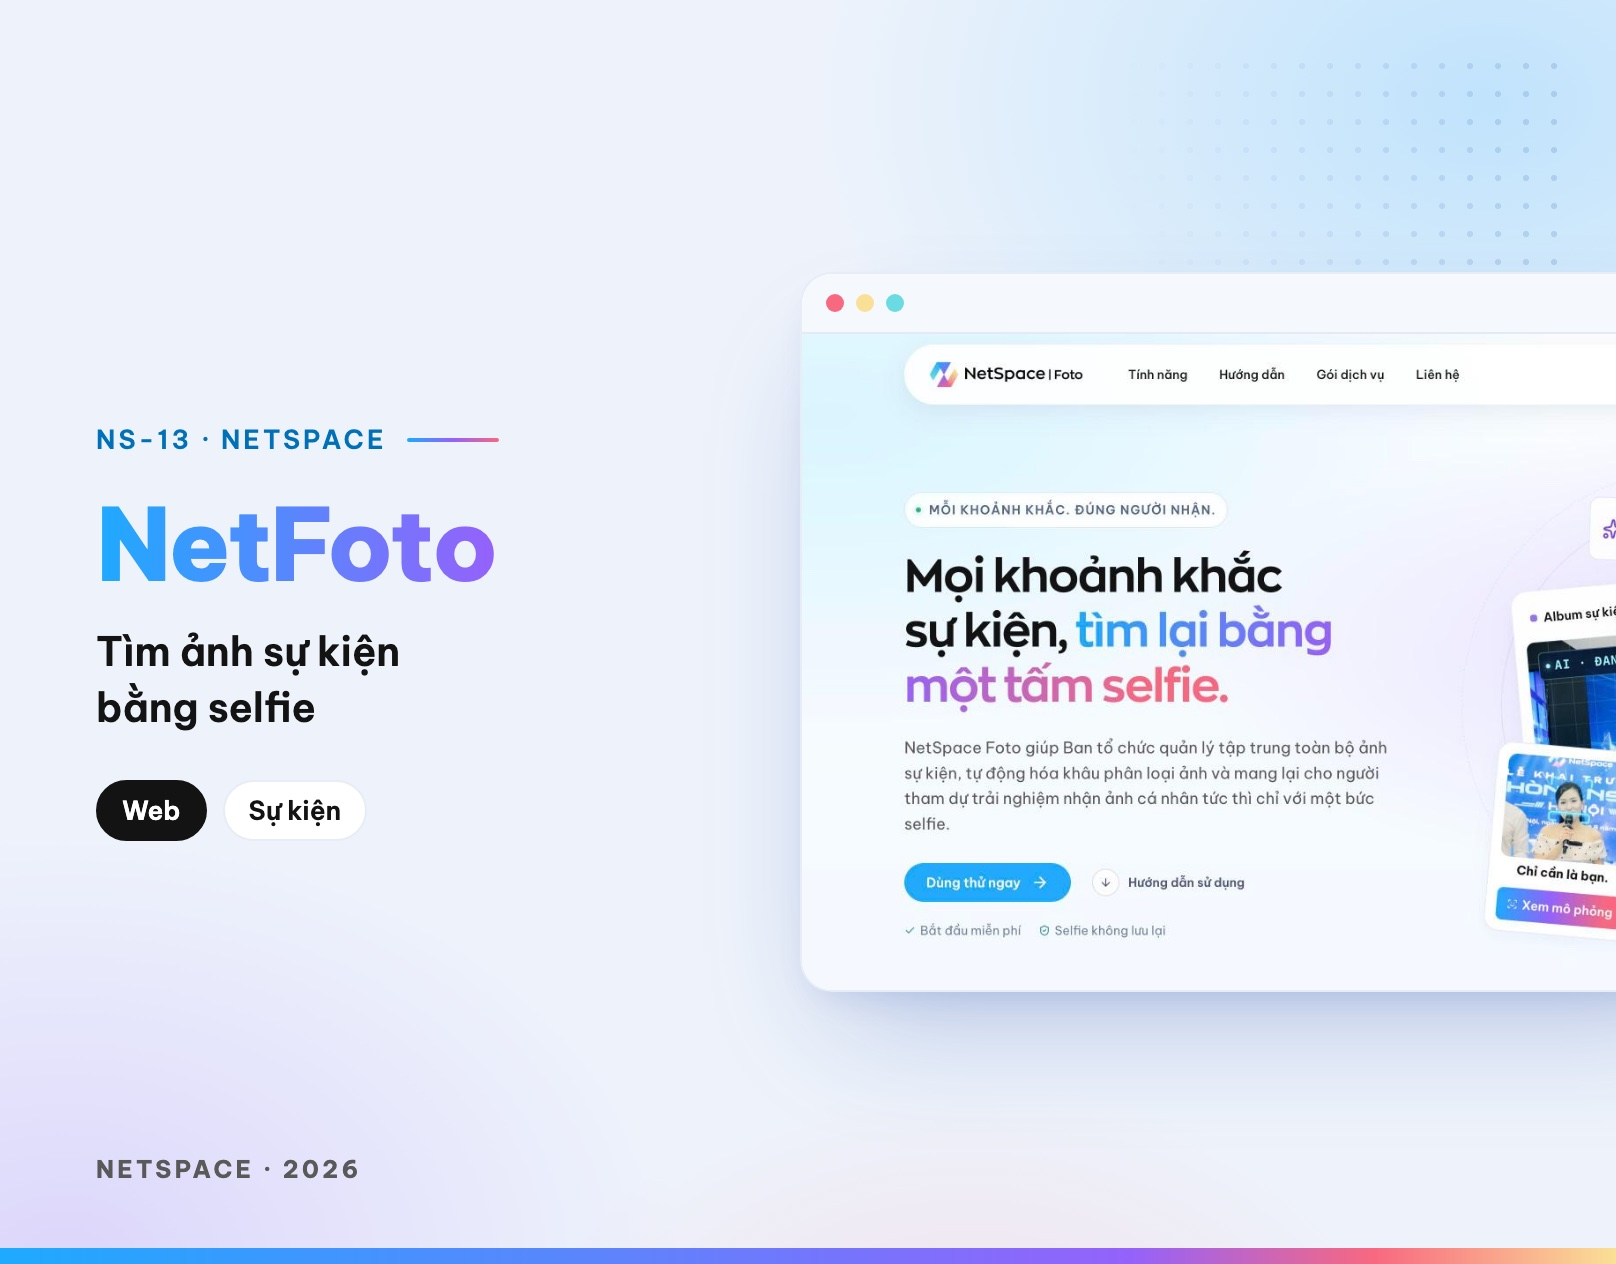
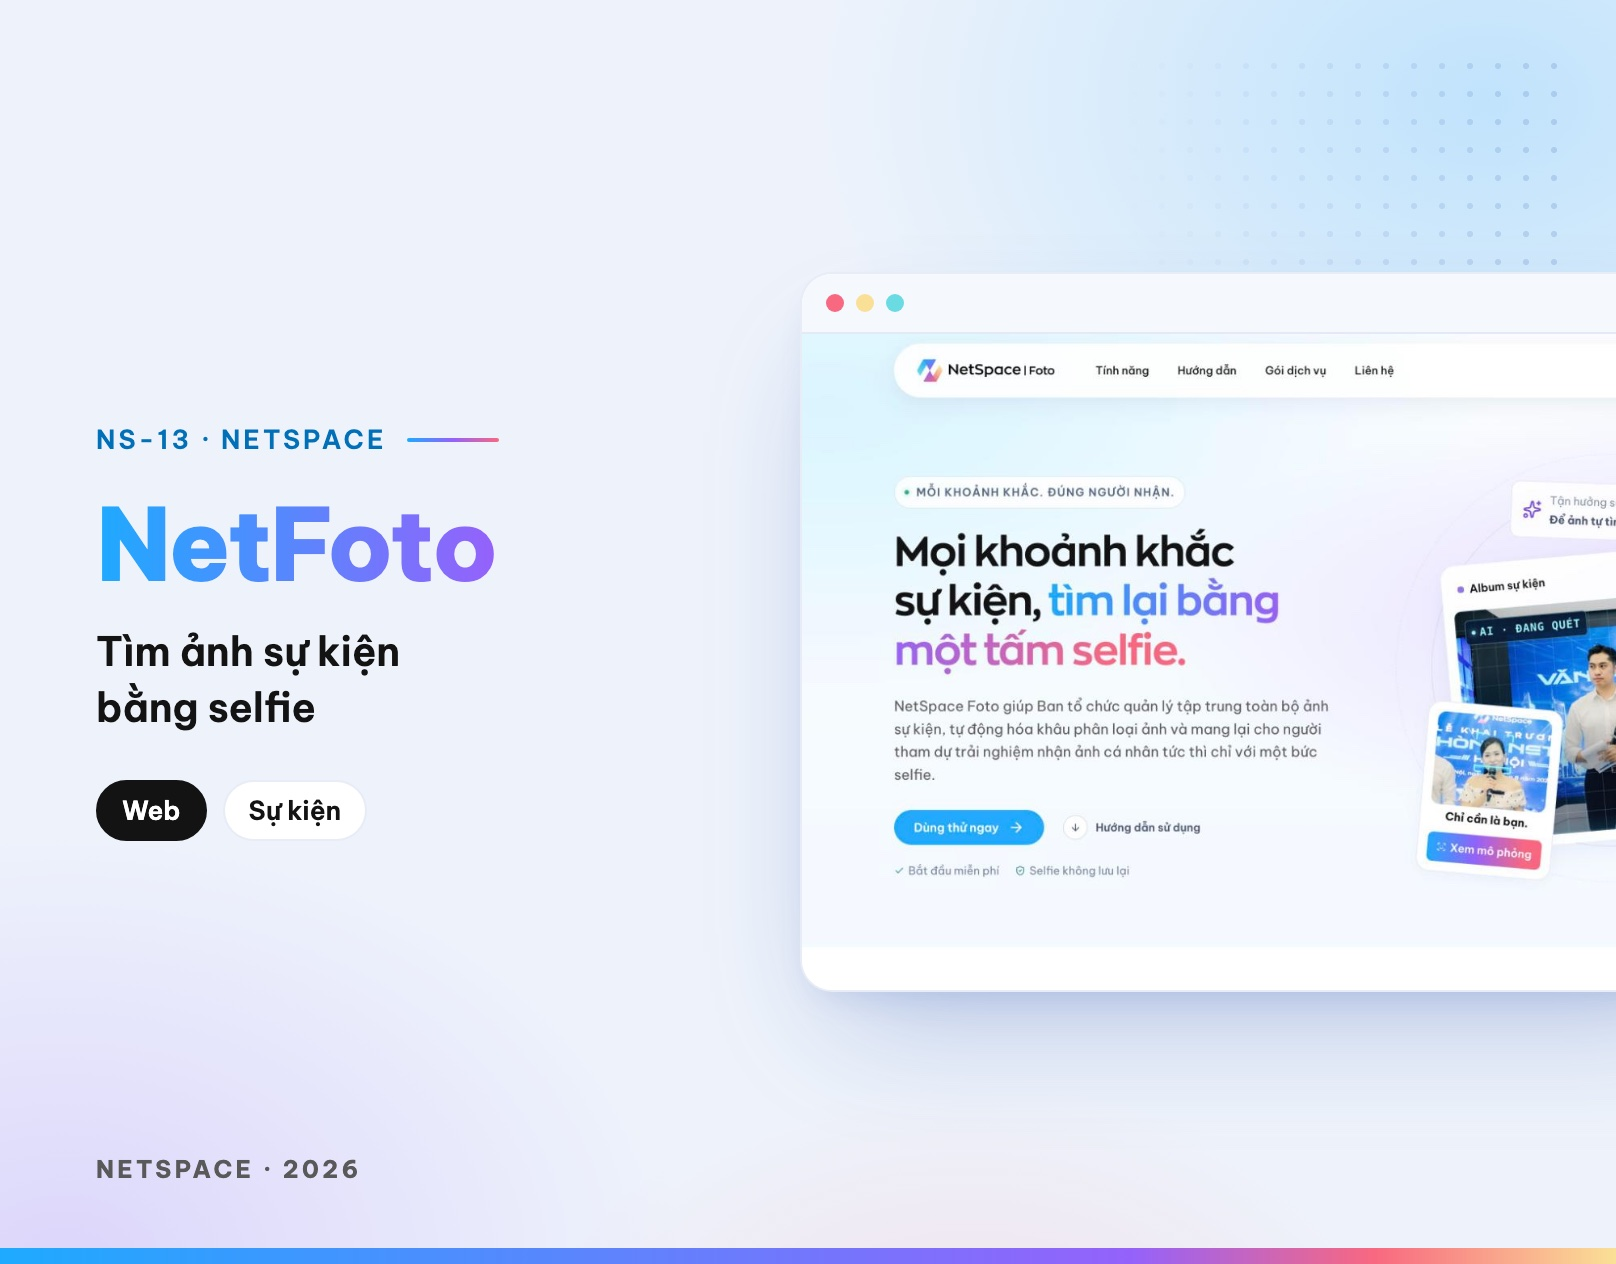
Update NetFoto with live landing, CMS and event gallery screenshots

Changed region(s): [[0.5569, 0.3703, 1.0, 0.7405], [0.5569, 0.2777, 0.8973, 0.3394], [0.9592, 0.3703, 1.0, 0.432]]

diff --git a/du-an.html b/du-an.html
@@ -573,7 +573,7 @@
           </a>
         </li>
         <li class="work" data-profile="netfoto" data-domain="event" data-plat="web">
-          <a class="work-link" href="https://netrace.vn/giai-chay" data-demo="https://netrace.vn/giai-chay" data-code="NS-13" data-images="assets/feat/nf-1.jpg,assets/feat/nf-2.jpg,assets/feat/nf-3.jpg,assets/feat/nf-4.jpg,assets/feat/nf-5.jpg,assets/feat/nf-6.jpg,assets/feat/nf-7.jpg,assets/feat/nf-8.jpg,assets/feat/nf-9.jpg,assets/feat/nf-10.jpg">
+          <a class="work-link" href="https://netrace.vn/giai-chay" data-demo="https://netrace.vn/giai-chay" data-code="NS-13" data-images="assets/feat/nf-1.jpg,assets/feat/nf-2.jpg,assets/feat/nf-3.jpg,assets/feat/nf-4.jpg,assets/feat/nf-5.jpg,assets/feat/nf-6.jpg,assets/feat/nf-7.jpg,assets/feat/nf-8.jpg,assets/feat/nf-9.jpg,assets/feat/nf-10.jpg,assets/feat/nf-11.jpg,assets/feat/nf-12.jpg">
             <span class="work-media"><img src="assets/thumb/netfoto.jpg" width="1616" height="1264" alt="NetFoto" loading="lazy" decoding="async"><span class="work-code">NS-13</span></span>
             <span class="work-body"><b class="work-title">NetFoto</b><span class="work-sub" data-i18n="profile.netfoto">Tìm ảnh sự kiện bằng selfie với AI nhận diện khuôn mặt.</span><span class="work-tags"><span class="badge">NetSpace</span><span class="badge badge-neutral" data-i18n="ns.aEvent">Sự kiện</span><span class="badge badge-neutral">Desktop · Mobile</span></span></span>
           </a>
